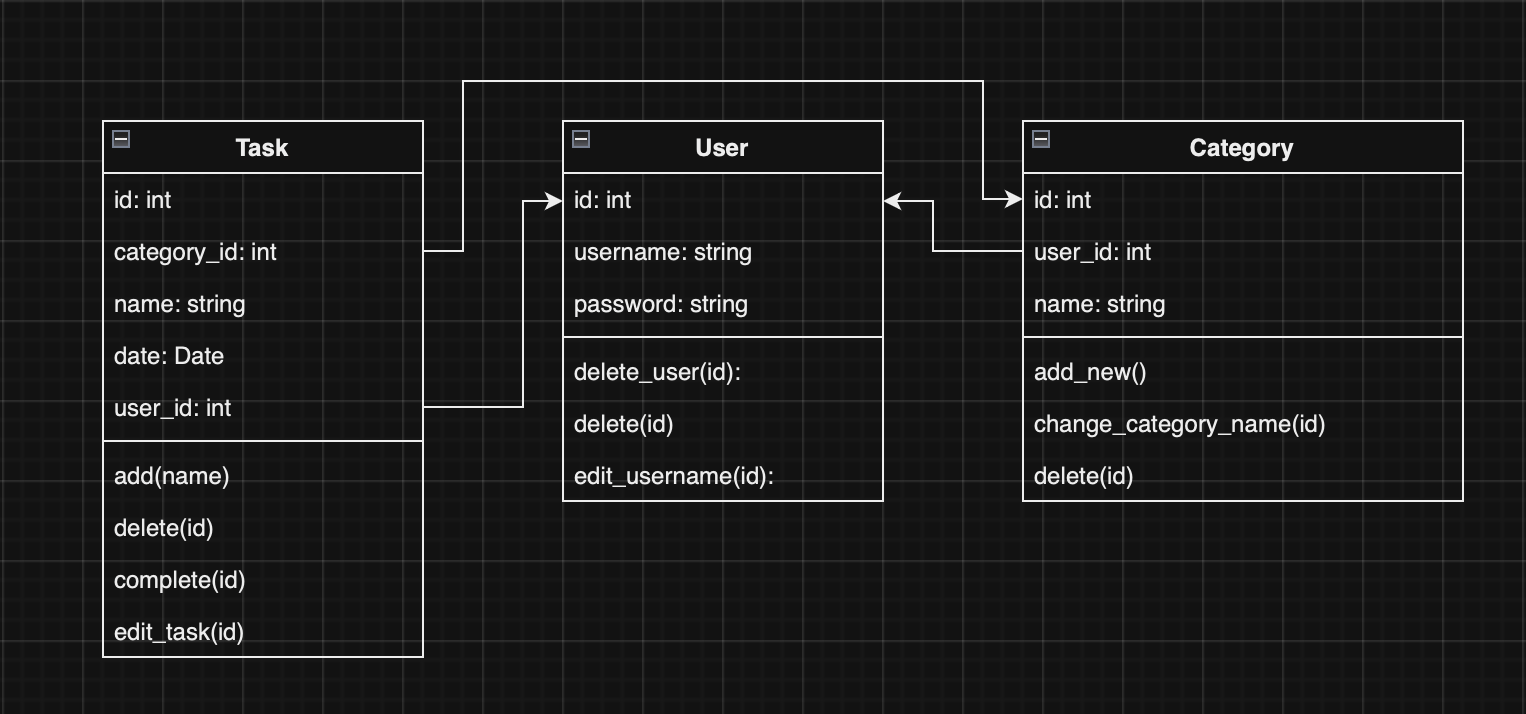
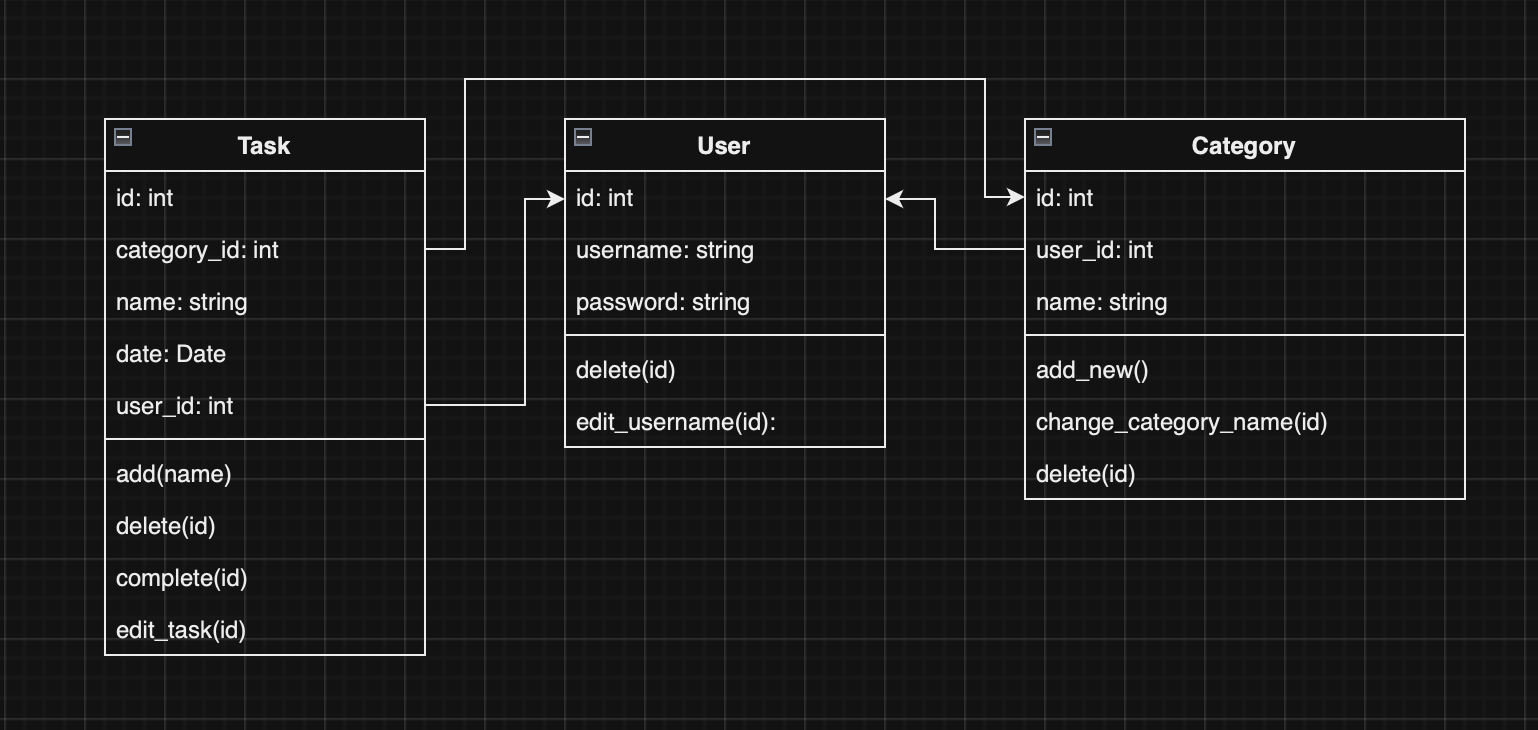
ready readme

diff --git a/README.md b/README.md
@@ -22,3 +22,44 @@
 
 # Диаграмма классов
 
+![DataModels](https://raw.github.com/DaniilShulha/OOP_Project/lab1/screenshot/models.png)
+
+## Класс Task
+
+* id: Int - уникальный идентификатор задачи.
+* category_id: Int - уникальный идентификатор категории задачи.
+* name: String - содержание задачи.
+* date: Date - дата , к которой нужно выполнить задачу.
+* user_id: Int - уникальный идентификатор пользователя для просмотра всех его задач.
+
+## Класс User
+
+* id: Int - уникальный идетификатор пользователя.
+* username: String - имя пользователя.
+* password: String - пароль от аккаунта пользователя.
+  
+## Класс Category
+
+* id: Int - уникальный идетификатор категории задачи.
+* user_id: Int - уникальный идетификатор пользователя для просмотра всех категорий его задач.
+* name: String - название категории.
+
+# Методы
+
+### Методы класса Task
+
+* add(name: String) - добавляет новую задачу, указав ее содержание.
+* delete(id: Int) - удаляет задачу по заданному идентификатору.
+* complete(id: Int) - делает заданную задачу выполненной.
+* edit_task(id: Int) - изменяет содержание, заданной по идентификатору, задачи.
+
+### Методы класса User
+
+* delete(id: Int) - удаление пользователя по его идентификатору.
+* edit_usernames(id: Int) - изменение имени пользователя.
+
+### Методы класса Category
+
+* add_new() - добавляет новую категорию.
+* change_category_name(id: Int) - изменяет название, переданной по идентификатору, категории.
+* delete(id: Int) - удаляет заданную категорию.
